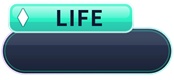
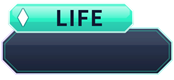
feat(art): chamfered HUD corners; life bar matches the score bar; rank tiles stay on screen
- Every rounded HUD shape (tags, gauge capsules, bars, rank tiles, rank plate) is now the
  chamfered octagon used elsewhere; the pause/skip buttons are regular octagons.
- Score and life bar troughs and life fills move to 24 px atlas rects (a free strip at the
  top of the LiveAtlas) and are drawn 1:1 like the score colour bar, so the chamfers stay at
  45 degrees. Colour bars sit 1 px further in than the trough, leaving a dark gap.
- The life bar takes the score bar's height and is centred in its capsule; its frame runs
  0.065 units further left and the heart moves with it. Life fills render Sliced, not Tiled.
- apply-atlas-art pins the two sprites both named gauge_base_h16_dbl to their kit files,
  so the life trough is painted at all.
- Rank threshold tiles run from 1 px under the screen edge down to the score frame; the
  letters keep their size.

diff --git a/ArtSource/Tools/AstralHud.cs b/ArtSource/Tools/AstralHud.cs
@@ -140,19 +140,25 @@ public static class AstralHud {
         }
         for(int i=0;i<points.Count;i++){int best=-1;float dmin=r.Width*r.Width*.1f;for(int j=0;j<i;j++){float dx=points[j].X-points[i].X,dy=points[j].Y-points[i].Y,d=dx*dx+dy*dy;if(d<dmin){dmin=d;best=j;}}if(best>=0&&i%5!=0)Line(g,A(65,color),.7f,points[i],points[best]);}
     }
-    static GraphicsPath RR(float x,float y,float w,float h,float r){
-        r=Math.Min(r,Math.Min(w,h)/2);float d=r*2;var p=new GraphicsPath();
-        p.AddArc(x,y,d,d,180,90);p.AddArc(x+w-d,y,d,d,270,90);p.AddArc(x+w-d,y+h-d,d,d,0,90);p.AddArc(x,y+h-d,d,d,90,90);p.CloseFigure();return p;
-    }
-    // A capsule with rounded ends; with flatLeft >= 0 its left end is instead cut square at x = flatLeft. An open
+    // The HUD has no rounded corners: every "rounded" box is the chamfered octagon the jacket windows, timing
+    // labels and card frames use. `r` is the corner size the shape used to have; the cut is that, held to at most
+    // 30% of the short side so bars and capsules keep flat ends instead of turning into hexagons.
+    static float Cut(float w,float h,float r){return Math.Max(0,Math.Min(r,Math.Min(w,h)*.3f));}
+    static GraphicsPath RR(float x,float y,float w,float h,float r){return Bevel(x,y,w,h,Cut(w,h,r));}
+    // A chamfer-ended capsule; with flatLeft >= 0 its left end is instead cut square at x = flatLeft. An open
     // (closed=false) flat capsule leaves that square end out, for rims that run on under something else.
-    static GraphicsPath Capsule(float x,float y,float w,float h,float r,float flatLeft,bool closed){
-        if(flatLeft<0&&closed)return RR(x,y,w,h,r);
-        var p=new GraphicsPath();float right=x+w,d=r*2;
-        if(flatLeft<0){p.AddArc(x,y,d,d,180,90);p.AddArc(right-d,y,d,d,270,180);p.AddArc(x,y+h-d,d,d,90,90);p.CloseFigure();return p;}
-        p.AddLine(flatLeft,y,right-r,y);p.AddArc(right-d,y,d,d,270,180);p.AddLine(right-r,y+h,flatLeft,y+h);
+    static GraphicsPath Capsule(float x,float y,float w,float h,float cut,float flatLeft,bool closed){
+        if(flatLeft<0)return Bevel(x,y,w,h,cut);
+        float right=x+w;var p=new GraphicsPath();
+        p.AddLines(new[]{P(flatLeft,y),P(right-cut,y),P(right,y+cut),P(right,y+h-cut),P(right-cut,y+h),P(flatLeft,y+h)});
         if(closed)p.CloseFigure();return p;
     }
+    // Moving a 45-degree chamfer `inset` inwards shortens its legs by inset*(sqrt2-1), which keeps nested rims parallel.
+    static float InsetCut(float cut,float inset){return Math.Max(0,cut-inset*.41421f);}
+    // Score and life bars (24 px textures): the colour bars are inset BarInset px with a BarCut chamfer, and the
+    // trough under them follows the same outline 0.5 px from the texture edge (6.6 px chamfer at 1 px).
+    const float BarInset=2;
+    static readonly float BarCut=InsetCut(6.6f,BarInset-1),TroughCut=InsetCut(6.6f,-.5f);
     static void Diamond(Graphics g,float x,float y,float hw,float hh,Color fill,Color edge){
         using(var p=Polygon(P(x,y-hh),P(x+hw,y),P(x,y+hh),P(x-hw,y))){if(edge.A>0)Stroke(g,p,edge,2);Fill(g,p,fill);}
     }
@@ -300,7 +306,12 @@ public static class AstralHud {
                 AstralType(g,text,new RectangleF(5,0,w-10,baseline),c,false,false,false,false,0,.6f*ppu);
                 Line(g,A(180,c),1,P(w*.2f,rule),P(w*.8f,rule));Star(g,w*.5f,rule,2.6f,c);
             }
-            else{using(var p=RR(1.5f,1.5f,w-3,h-3,8)){Gradient(g,p,A(240,C("#22355a")),A(240,C("#0b1328")));Rim(g,p,1.5f,240,60,Mix(c,Color.White,.62f),Lt(c),Mix(c,Purple,.4f));}Plain(g,text,new RectangleF(8,7,w-16,h-14),Mix(c,Color.White,.3f),false);}return true;
+            else{
+                // The score bar's threshold tiles, shown at scale 0.989 from 1 px under the screen edge down to the capsule's
+                // rim: the frame fills the texture and the letter keeps its on-screen size (14.76 x 18.04 px at 108 px per unit, centred).
+                using(var p=RR(1,1,w-2,h-2,8)){Gradient(g,p,A(240,C("#22355a")),A(240,C("#0b1328")));Rim(g,p,1.25f,240,60,Mix(c,Color.White,.62f),Lt(c),Mix(c,Purple,.4f));}
+                const float lw=14.76f/.989f,lh=18.04f/.989f;Plain(g,text,new RectangleF((w-lw)/2,(h-lh)/2,lw,lh),Mix(c,Color.White,.3f),false);
+            }return true;
         }
         if(n.StartsWith("tex_live_countdown")){
             string digit=Regex.Match(n,@"_(\d)\.png$").Groups[1].Value;
@@ -316,10 +327,10 @@ public static class AstralHud {
     static bool HudAsset(Graphics g,string n,int w,int h){
         if(n.StartsWith("btn_")){
             bool disabled=n.Contains("disable");Color c=n.StartsWith("btn_stop")?Gold:disabled?C("#8b93a7"):Mint;
-            // "Prism" HUD: a dark glass disc with a gradient rim, a thin accent ring and two gems.
-            float cx=w/2f,cy=h/2f,r=40;
-            using(var disc=new GraphicsPath()){
-                disc.AddEllipse(cx-r,cy-r,r*2,r*2);
+            // "Prism" HUD: a dark glass octagon (the HUD's chamfer at its regular-octagon size) with a gradient rim,
+            // a thin accent ring and two gems on its flat sides.
+            float cx=w/2f,cy=h/2f,r=40;const float octagon=.29289f;
+            using(var disc=Bevel(cx-r,cy-r,r*2,r*2,r*2*octagon)){
                 if(!disabled)Bloom(g,disc,c,5,5);
                 Gradient(g,disc,A(disabled?130:238,C("#22355a")),A(disabled?130:238,C("#0b1328")));
                 var clip=g.Save();g.SetClip(disc);
@@ -328,7 +339,7 @@ public static class AstralHud {
                 Rim(g,disc,3,disabled?110:245,45,RimButton);
             }
             // The inner ring repeats the rim's gradient.
-            using(var ring=new GraphicsPath()){ring.AddEllipse(cx-33.5f,cy-33.5f,67,67);Rim(g,ring,1.4f,disabled?70:220,45,RimButton);}
+            using(var ring=Bevel(cx-33.5f,cy-33.5f,67,67,67*octagon)){Rim(g,ring,1.4f,disabled?70:220,45,RimButton);}
             foreach(float gx in new[]{cx-r,cx+r})Diamond(g,gx,cy,4,7,A(disabled?130:255,Color.White),A(disabled?60:170,Navy));
             Color ink=A(disabled?100:255,Color.White);
             if(n.Contains("skip")){
@@ -344,15 +355,15 @@ public static class AstralHud {
             // Tag and capsule ends stay inside the manifest's fixed left/right borders. The score capsule's left
             // end is cut flat at the texture edge, where the rank plate's edge meets it (the way the life capsule
             // runs under the pause disc), so its rim is drawn open on that side.
-            float flat=life?-1:0;
-            using(var p=Capsule(2,28,w-4,46,23,flat,true)){
+            float flat=life?-1:0;const float cut=14;
+            using(var p=Capsule(2,28,w-4,46,cut,flat,true)){
                 Gradient(g,p,A(232,C("#1d2d4d")),A(238,C("#0a1226")));
                 var clip=g.Save();g.SetClip(p);
                 using(var b=new SolidBrush(A(20,Color.White)))g.FillRectangle(b,0,28,w,17);
                 g.Restore(clip);
             }
-            using(var p=Capsule(2,28,w-4,46,23,flat,false))Rim(g,p,1.6f,240,0,life?RimLife:RimScore);
-            using(var p=Capsule(4.8f,30.8f,w-9.6f,40.4f,20.2f,flat,false))Stroke(g,p,A(95,life?Mint:Purple),1);
+            using(var p=Capsule(2,28,w-4,46,cut,flat,false))Rim(g,p,1.6f,240,0,life?RimLife:RimScore);
+            using(var p=Capsule(4.8f,30.8f,w-9.6f,40.4f,InsetCut(cut,2.8f),flat,false))Stroke(g,p,A(95,life?Mint:Purple),1);
             Color top=life?Mix(Mint,Color.White,.35f):Mix(Purple,Color.White,.15f),mid=life?Mint:Mix(Purple,Blue,.5f),bot=life?Mix(Mint,C("#3a2f6b"),.14f):Blue;
             // The score tag starts 18 px in, clear of the rank plate's edge.
             float tag=life?8:18;
@@ -363,20 +374,21 @@ public static class AstralHud {
             return true;
         }
         if(n.StartsWith("bar_lifeGauge")||n.StartsWith("gauge_base")){
-            if(n.StartsWith("gauge_base")){
-                using(var p=RR(.5f,.5f,w-1,h-1,7.5f)){Gradient(g,p,A(245,C("#070c1c")),A(245,C("#16223d")));Stroke(g,p,A(70,Color.White),.8f);}
-                return true;
-            }
-            Color c=n.Contains("rd")?Pink:Mint;
-            PrismGlass(g,.5f,.5f,w-1,h-1,7.5f,Mix(c,Color.White,.45f),c,Mix(c,C("#3a2f6b"),.16f),1.2f);return true;
+            // Both bars share the score colour bar's resolution (gauge_bar_ingame_freeLive_s, 24 px tall): troughs and life
+            // fills are 24 px textures that FrontUIView draws about 1:1 (0.2234 / 0.22 units at 108 px per unit).
+            // The trough's outline is 0.5 px in from the texture edge; the colour bars sit BarInset px in, so a dark
+            // gap of about a pixel separates them instead of the two antialiased edges running together.
+            if(n.StartsWith("gauge_base"))using(var p=Bevel(.5f,.5f,w-1,h-1,TroughCut)){Gradient(g,p,A(245,C("#070c1c")),A(245,C("#16223d")));Stroke(g,p,A(70,Color.White),.8f);}
+            else{Color c=n.Contains("rd")?Pink:Mint;PrismGlass(g,BarInset,BarInset,w-BarInset*2,h-BarInset*2,BarCut,Mix(c,Color.White,.45f),c,Mix(c,C("#3a2f6b"),.16f),1.4f);}
+            return true;
         }
         if(n=="gauge_bar_ingame_freeLive_s.png"){
-            using(var p=RR(1,1,w-2,h-2,11)){
+            using(var p=Bevel(BarInset,BarInset,w-BarInset*2,h-BarInset*2,BarCut)){
                 using(var b=new LinearGradientBrush(P(0,0),P(w,0),Mint,Pink)){
                     var blend=new ColorBlend();blend.Positions=new[]{0f,.32f,.66f,1f};blend.Colors=new[]{Mint,Blue,Purple,Pink};b.InterpolationColors=blend;g.FillPath(b,p);
                 }
                 var clip=g.Save();g.SetClip(p);
-                using(var b=new LinearGradientBrush(P(0,2),P(0,12.5f),A(150,Color.White),A(28,Color.White)))g.FillRectangle(b,0,3.2f,w,8.6f);
+                using(var b=new LinearGradientBrush(P(0,3),P(0,12.5f),A(150,Color.White),A(28,Color.White)))g.FillRectangle(b,0,4.2f,w,7.6f);
                 using(var b=new SolidBrush(A(48,C("#1b2247"))))g.FillRectangle(b,0,h*.66f,w,h);
                 g.Restore(clip);Rim(g,p,1.4f,240,0,Mix(Mint,Color.White,.62f),Mix(Blue,Color.White,.62f),Mix(Purple,Color.White,.62f),Mix(Pink,Color.White,.62f));
             }return true;

diff --git a/ArtSource/Tools/AstralBackgrounds.cs b/ArtSource/Tools/AstralBackgrounds.cs
@@ -22,10 +22,8 @@ public static class AstralBackgrounds {
     static int Clamp(double value){return Math.Max(0,Math.Min(255,(int)Math.Round(value)));}
     static GraphicsPath Poly(params PointF[] p){var path=new GraphicsPath();path.AddPolygon(p);return path;}
     static GraphicsPath Bevel(float x,float y,float w,float h,float cut){return Poly(P(x+cut,y),P(x+w-cut,y),P(x+w,y+cut),P(x+w,y+h-cut),P(x+w-cut,y+h),P(x+cut,y+h),P(x,y+h-cut),P(x,y+cut));}
-    static GraphicsPath Rounded(float x,float y,float w,float h,float r){
-        var path=new GraphicsPath();path.AddArc(x,y,r*2,r*2,180,90);path.AddArc(x+w-r*2,y,r*2,r*2,270,90);
-        path.AddArc(x+w-r*2,y+h-r*2,r*2,r*2,0,90);path.AddArc(x,y+h-r*2,r*2,r*2,90,90);path.CloseFigure();return path;
-    }
+    // The plate's chamfer, the octagon cut the HUD uses everywhere (AstralHud.Bevel), sized to its 0.22 on-screen scale.
+    const float PlateCut=44;
     static void Line(Graphics g,Color c,float width,params PointF[] p){using(var pen=new Pen(c,width)){pen.LineJoin=LineJoin.Bevel;g.DrawLines(pen,p);}}
     static void Star(Graphics g,float x,float y,float r,Color c){using(var p=Poly(P(x,y-r),P(x+r*.19f,y-r*.19f),P(x+r*.7f,y),P(x+r*.19f,y+r*.19f),P(x,y+r),P(x-r*.19f,y+r*.19f),P(x-r*.7f,y),P(x-r*.19f,y-r*.19f)))using(var b=new SolidBrush(c))g.FillPath(b,p);}
     static double Hash(int x,int y){unchecked{uint n=(uint)(x*374761393+y*668265263);n=(n^(n>>13))*1274126177;return (n^(n>>16))/(double)uint.MaxValue;}}
@@ -151,7 +149,7 @@ public static class AstralBackgrounds {
         var image=new Bitmap(w,h,PixelFormat.Format32bppArgb);
         using(var g=Graphics.FromImage(image)){
             g.SmoothingMode=SmoothingMode.AntiAlias;
-            using(var silhouette=Rounded(1,1,w-2,h-2,53))g.SetClip(silhouette);
+            using(var silhouette=Bevel(1,1,w-2,h-2,PlateCut))g.SetClip(silhouette);
             // Compact in-game rank tile in the HUD's dark glass (AstralHud gauge capsules): the large dynamic
             // letter and the RANK word own the centre.
             using(var b=new LinearGradientBrush(P(0,0),P(0,h),C("#1d2d4d"),C("#0a1226")))g.FillRectangle(b,0,0,w,h);
@@ -162,8 +160,8 @@ public static class AstralBackgrounds {
             // capsule runs under the pause disc. The rim is a horizontal gradient that ends in the capsule rim's
             // first colour (rose) where the two meet, and the inner ring repeats it, as on the HUD buttons.
             Color[] rim={Soft(Mix(Blue,Color.White,.3f)),Soft(Mix(Purple,Color.White,.3f)),Soft(Mix(Pink,Color.White,.3f))};
-            using(var p=Rounded(5,5,w-10,h-10,49))RimPen(g,p,8f,240,rim,w,h);
-            using(var p=Rounded(17,17,w-34,h-34,38))RimPen(g,p,3.5f,150,rim,w,h);
+            using(var p=Bevel(5,5,w-10,h-10,PlateCut-4*.41421f))RimPen(g,p,8f,240,rim,w,h);
+            using(var p=Bevel(17,17,w-34,h-34,PlateCut-16*.41421f))RimPen(g,p,3.5f,150,rim,w,h);
             // Gems on both sides at the capsule's centre line (plate row 323 = world y -0.523), as on the pause disc.
             // They are the pause disc's gem size on screen, centred on the inner ring so they stay inside the texture.
             foreach(float x in new[]{17f,w-17f})using(var p=Poly(P(x,323-32),P(x+15,323),P(x,323+32),P(x-15,323))){
